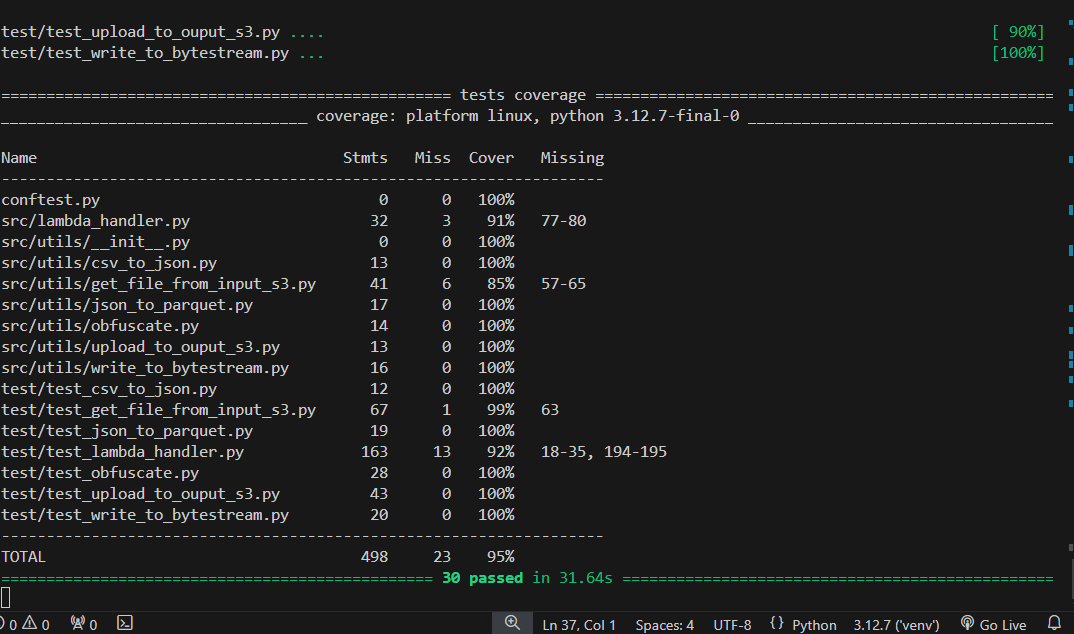
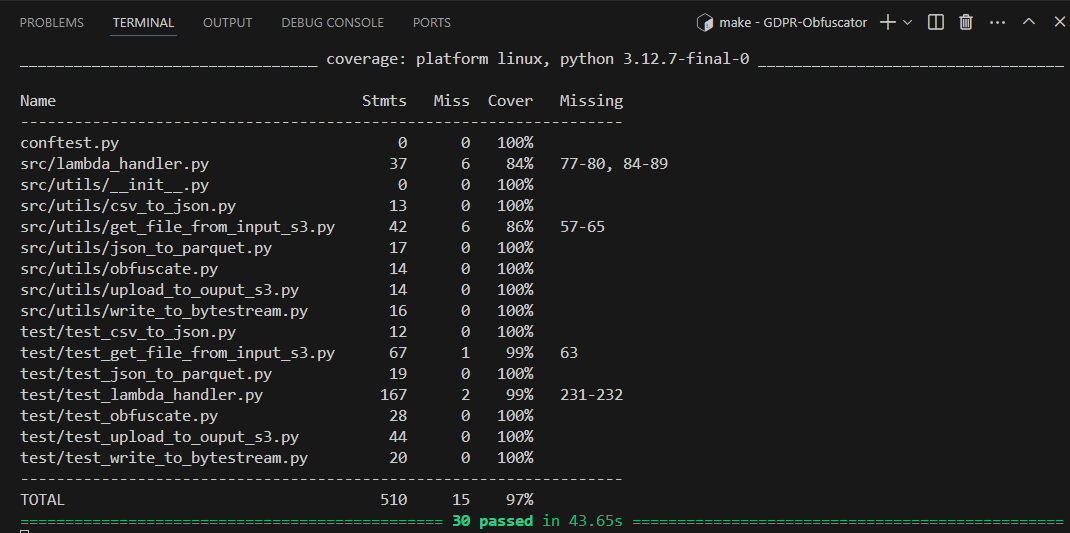
Updating the Makefile after successful final tests

diff --git a/README.md b/README.md
@@ -188,7 +188,7 @@ Step 2: Install AWS_cli 1.42.40 and configure AWS credentials
 
           aws configure
 
-A prompt message should appear inviting to enter your AWS credentials.Ensure that the default region name is set to "eu-west-2", and that the default output format is set to  format as below:
+A prompt message should appear inviting to enter your AWS credentials.Ensure that the default region name is set to "eu-west-2", and that the default output format is set to "json" format as below:
 
     AWS Access Key ID: ###########
     AWS Secret Access Key: #############
@@ -204,7 +204,7 @@ Step 3: Install project requirements as specified in requirements.txt
 
           pip install -r requirements.txt
 
-Step 4: Run safety and unit tests and PEP 8 compliance checks (Go to the sectio 'Note on Unit-Testing and Mock-Tests' for detailed instruction on tests)
+Step 4: Run safety and unit tests and PEP 8 compliance checks (Go to the section 'Note on Unit-Testing and Mock-Tests' for detailed instruction on tests)
 
 . Run Unit-tests:
 
@@ -341,7 +341,7 @@ below shows the Pytest results of all 30 tests passed in 21.36s:
 
           pytest --cov=. --cov-report=term-missing && flake8 .
 
-Our current project states scored 95% in coverage tests.
+Our current project states scored 97% in coverage tests.
 
 ![Current Coverage results](coverage_tests_results.png)
 
@@ -361,7 +361,11 @@ Python scripts for the project also succesfully passed safety checks as the scre
 
           make project
 
-If you have AWS_cli 1.42.40 already installed and correctly configured, running the Makefile altenatively will also activate a virtual environment and securely run the tests by default.
+If you have AWS_cli 1.42.40 already installed and correctly configured, running the Makefile altenatively will also activate a virtual environment and securely run the tests by default. Press "CMD + C" or "CTRL + C" to exit the display of coverage results and start using the tool. You should be good too go once all tests are succesful.
+
+Note on Safety checks:
+
+The passing safety scan published on the sceenshot above was done using a free version of Safety, so you may need to create a free Safety account in order to run safety tests. Run safety checks separately with the command "safety scan" and follow the instructions to create a free account on your browser and run the checks.
 
 ## Documentation
 
